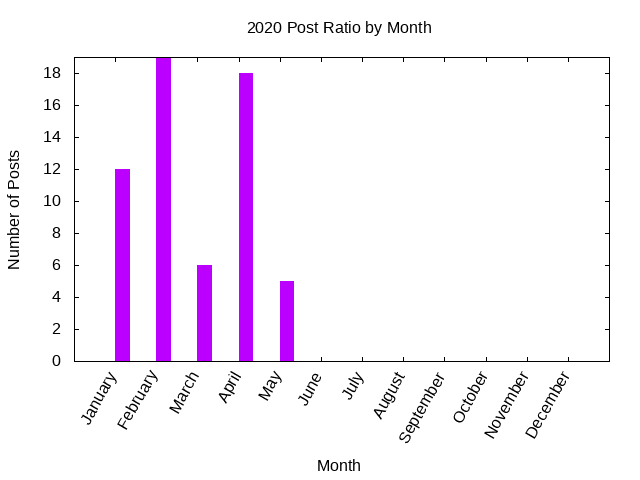
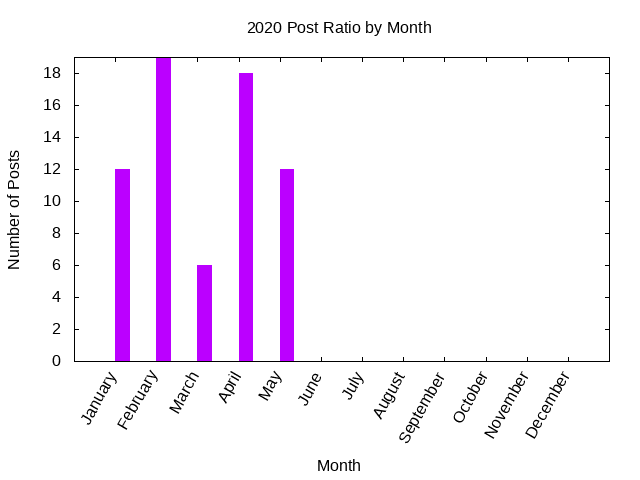
Update stats

Changed region(s): [[0.4375, 0.3438, 0.4688, 0.5938]]

diff --git a/_includes/stats/2020.md b/_includes/stats/2020.md
@@ -1,40 +1,40 @@
 ## 2020 (work in progress)
 
-**60 total posts** have been written on 2020.
-There have been *41 different tags* used, the most
+**67 total posts** have been written on 2020.
+There have been *45 different tags* used, the most
 used popular being (in order of number of posts):
  
-- *raku* (26 posts)  
-- *perl-weekly-challenge* (21 posts)  
-- *postgresql* (13 posts)  
-- *planet-postgresql-org* (11 posts)  
+- *raku* (27 posts)  
+- *perl-weekly-challenge* (22 posts)  
+- *postgresql* (16 posts)  
+- *planet-postgresql-org* (14 posts)  
+- *linux* (9 posts)  
 - *oracle* (6 posts)  
-- *linux* (6 posts)  
 - *java* (5 posts)  
 - *perl* (4 posts)  
 - *blog* (4 posts)  
 - *php* (3 posts)  
-- *smart-working* (2 posts)  
-- *eclipse* (2 posts)  
+- *freebsd* (3 posts)  
 - *sql* (2 posts)  
-- *freebsd* (2 posts)  
-- *itpug* (2 posts)  
-- *planet-kde-org* (2 posts)  
+- *eclipse* (2 posts)  
 - *kde* (2 posts)  
-- *postgres-weekly* (1 posts)  
-- *aglets* (1 posts)  
-- *catalyst* (1 posts)  
-- *hardware* (1 posts)  
-- *programming* (1 posts)  
+- *docker* (2 posts)  
+- *planet-kde-org* (2 posts)  
+- *itpug* (2 posts)  
+- *smart-working* (2 posts)  
 - *cryptsetup* (1 posts)  
-- *swap* (1 posts)  
+- *microsoft* (1 posts)  
+- *systemd* (1 posts)  
 - *opensource* (1 posts)  
-- *perl5* (1 posts)  
-- *git* (1 posts)  
-- *jcl* (1 posts)  
-- *kubuntu* (1 posts)  
-- *qt* (1 posts)  
-- *hibernate* (1 posts).<br/>
+- *postgres-weekly* (1 posts)  
+- *catalyst* (1 posts)  
+- *magit* (1 posts)  
+- *hibernate* (1 posts)  
+- *centos* (1 posts)  
+- *big-bang-theory* (1 posts)  
+- *unix* (1 posts)  
+- *university* (1 posts)  
+- *rant* (1 posts).<br/>
 <br/>
 The following is the overall 2020 post ratio by month:
 <br/>
@@ -53,7 +53,7 @@ The following is the overall 2020 post ratio by tag (showing max 30 tags):
 
 <div align="right">
 <small>
-Last generated on 2020-05-21 at 8:37
+Last generated on 2020-05-28 at 18:15
 </small>
 </div>
 
